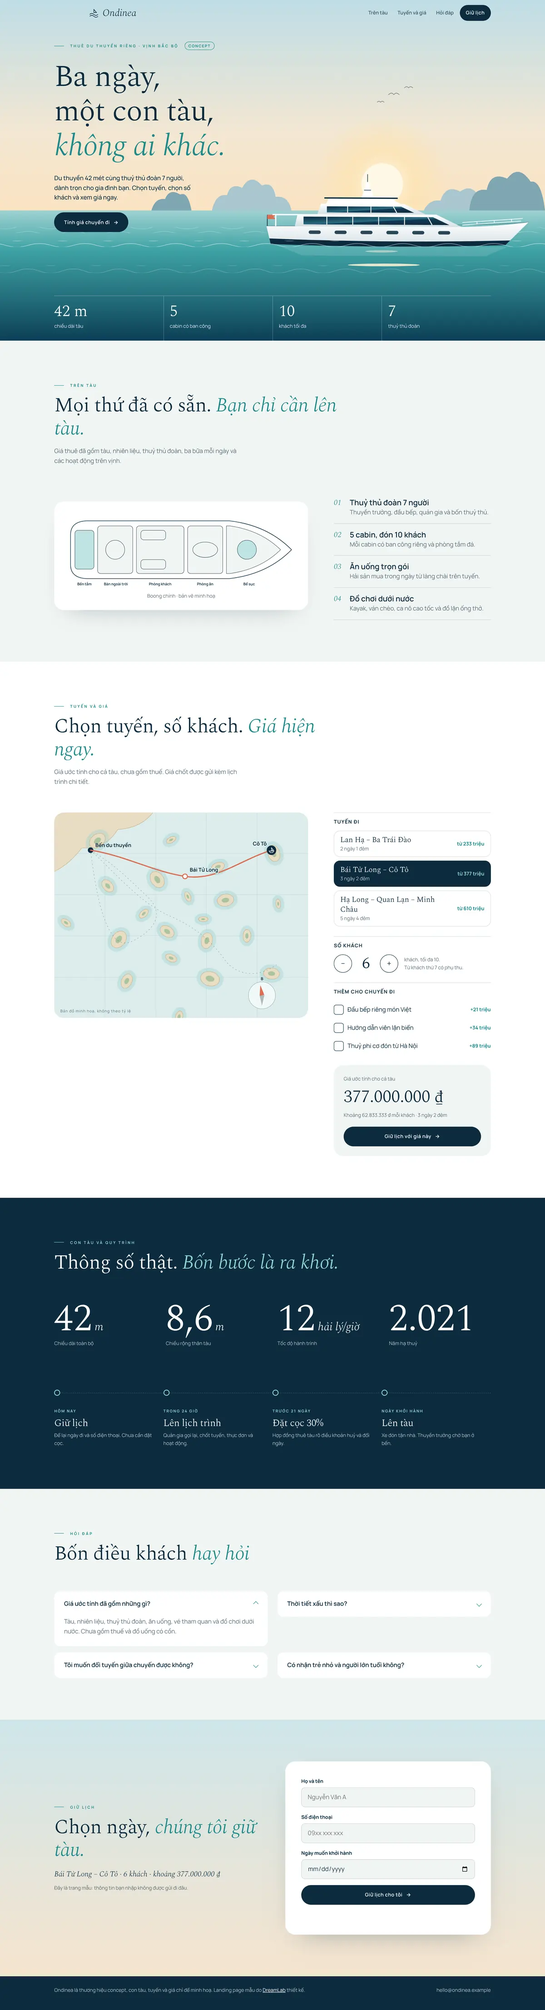
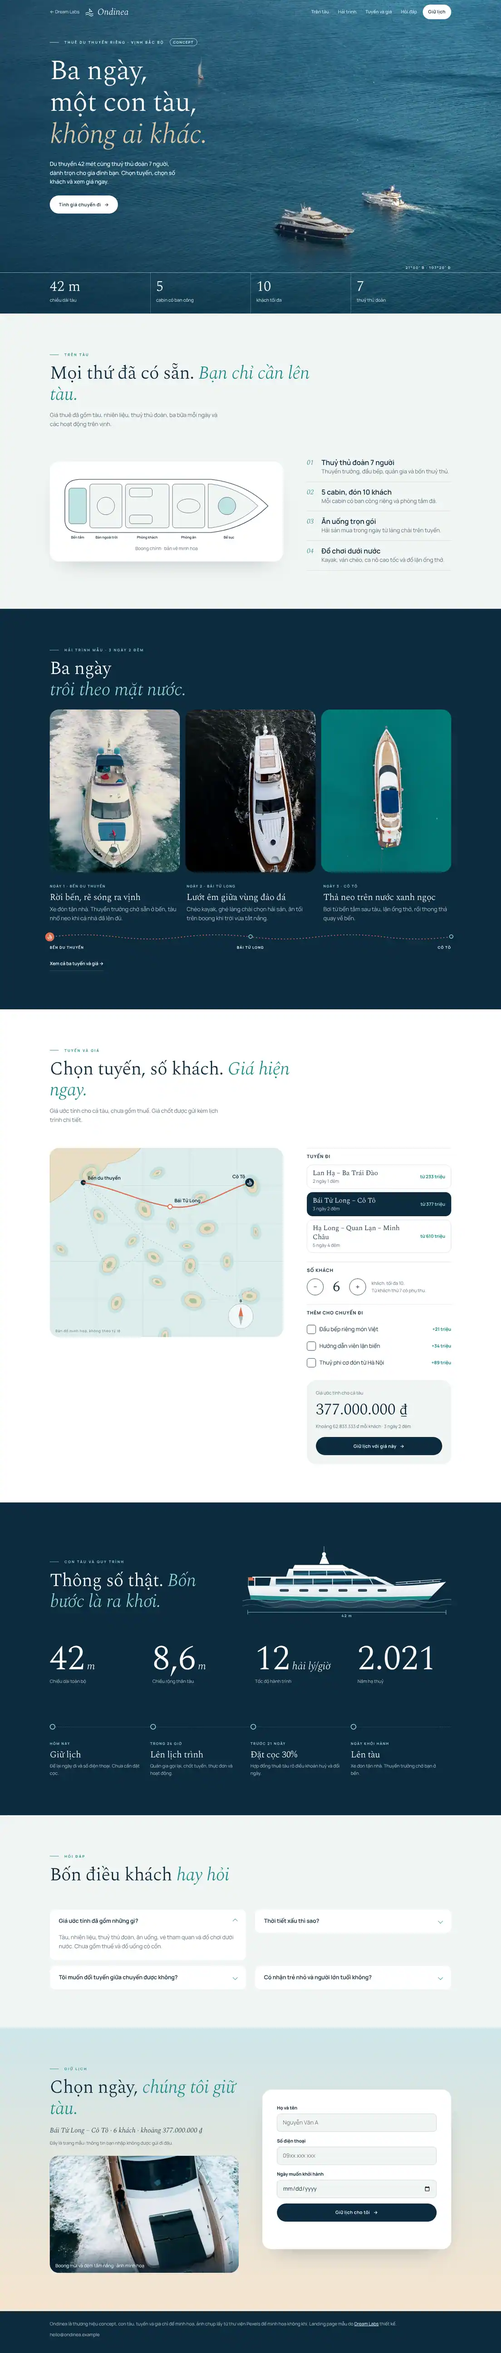
Landing Ondinea: hero ảnh du thuyền với nắng lấp lánh, cảnh ghim hải trình wipe lượn sóng, khối ảnh boong
Claude-Session: https://claude.ai/code/session_012QLWn7rvRysGvRwdv6upwG

diff --git a/demos/lux-lp-ondinea.html b/demos/lux-lp-ondinea.html
@@ -60,24 +60,29 @@ header .w{display:flex;align-items:center;gap:var(--s3);height:68px}
 .lg svg{width:26px;height:26px}
 nav{display:flex;gap:var(--s4);font-size:13px;font-weight:600}nav a{min-height:42px;display:flex;align-items:center;opacity:.74;transition:opacity var(--d2)}nav a:hover{opacity:1}
 /* hero */
-.hero{position:relative;min-height:min(100svh,940px);overflow:hidden;display:flex;flex-direction:column;justify-content:space-between;padding:var(--s7) 0 0;background:#CFE6EA}
-.sc{position:absolute;inset:0;width:100%;height:100%}
-.yt{transform:translate(690px,474px) scale(1.14)}
+.hero{position:relative;min-height:min(100svh,940px);overflow:hidden;display:flex;flex-direction:column;justify-content:space-between;padding:var(--s7) 0 0;background:#1C5F80;color:var(--wh)}
+.hb{position:absolute;inset:-9% 0}.hm{position:absolute;inset:-12px}
+.hi{position:absolute;inset:0;width:100%;height:100%;object-fit:cover;object-position:50% 84%;animation:kb 34s ease-in-out infinite alternate}
+@keyframes kb{from{transform:scale(1.06) translate3d(-1.6%,0,0)}to{transform:scale(1.13) translate3d(1.6%,-.8%,0)}}
+.hb::after{content:"";position:absolute;inset:0;background:linear-gradient(98deg,rgba(12,43,62,.7),rgba(12,43,62,.24) 54%,rgba(12,43,62,0) 76%),linear-gradient(0deg,rgba(12,43,62,.66),rgba(12,43,62,0) 36%)}
+.hg{position:absolute;inset:0;width:100%;height:100%;pointer-events:none}
+.hero em{color:var(--sd)}.hero .cap{color:#CFEDEA}
+.hero .btn,header:not(.s) .btn{background:var(--wh);color:var(--nv)}.hero .btn:hover,header:not(.s) .btn:hover{background:var(--tl);color:var(--wh)}
+header:not(.s){color:var(--wh)}header:not(.s) .bk{color:rgba(255,255,255,.82)}
 .yb{transform-origin:310px 150px;animation:bob 6.86s ease-in-out infinite alternate}
 @keyframes bob{from{transform:translateY(-3px) rotate(-.5deg)}to{transform:translateY(3px) rotate(.6deg)}}
 .wv{animation:wv 11s linear infinite}.wv.b{animation-duration:6.86s;animation-direction:reverse}
 @keyframes wv{to{transform:translateX(-120px)}}
-.gl ellipse{animation:gl 2.62s ease-in-out infinite alternate}.gl ellipse:nth-child(2n){animation-delay:-1s}.gl ellipse:nth-child(3n){animation-delay:-1.8s}
-@keyframes gl{from{opacity:.2;transform:scaleX(.7)}to{opacity:.9}}
-.gl ellipse{transform-box:fill-box;transform-origin:center}
-.brd{animation:brd 26s linear infinite}@keyframes brd{from{transform:translateX(-80px)}to{transform:translateX(1520px)}}
 .hero .w{position:relative;z-index:2}
 h1{font-size:clamp(42px,5.6vw,80px);margin:var(--s4) 0}.h1 span{white-space:nowrap}
 .ld{max-width:38ch;font-weight:500;margin-bottom:var(--s4);animation:fade var(--d6) var(--ease) .5s both}
 .hero .btn{animation:fade var(--d6) var(--ease) .68s both}
-.fc{position:relative;z-index:2;display:grid;grid-template-columns:repeat(4,1fr);color:var(--wh);border-top:1px solid rgba(255,255,255,.34);margin-top:var(--s6)}
+.fc{position:relative;z-index:2;display:grid;grid-template-columns:repeat(4,1fr);margin-top:var(--s6)}
+.fc::before{content:"";position:absolute;left:50%;top:0;width:100vw;margin-left:-50vw;height:1px;background:rgba(255,255,255,.62);transform-origin:0 50%;animation:hz 2.6s var(--ease) .5s both}
+@keyframes hz{from{transform:scaleX(0)}}
+.fc::after{content:"21°00′ B · 107°20′ Đ";position:absolute;right:0;bottom:100%;padding-bottom:var(--s1);font-size:10px;letter-spacing:.2em;font-weight:700;opacity:.8;animation:fade var(--d6) var(--ease) 1.8s both}
 .fc div{padding:var(--s3) var(--s3) var(--s4) 0}.fc div+div{padding-left:var(--s3);border-left:1px solid rgba(255,255,255,.34)}
-.fc b{display:block;font-family:var(--fd);font-weight:300;font-size:clamp(26px,3.4vw,42px);line-height:1.2}.fc span{font-size:13px;opacity:.86}
+.fc b{display:block;font-family:var(--fd);font-weight:300;font-size:clamp(26px,3.4vw,42px);line-height:1.2}.fc div>span{font-size:13px;opacity:.86}
 /* sections */
 .sec{padding:var(--s7) 0;position:relative}
 .sh{max-width:760px;margin-bottom:var(--s6)}
@@ -96,6 +101,48 @@ h2{font-size:clamp(33px,4.6vw,53px);margin:var(--s3) 0}
 .inc li{counter-increment:s;display:grid;grid-template-columns:42px 1fr;padding:var(--s3) 0;border-bottom:1px solid var(--ln)}
 .inc li::before{content:"0" counter(s);font-family:var(--fd);font-style:italic;color:var(--tl);font-size:20px;line-height:1.3}
 .inc h3{font-size:20px;font-family:var(--fb);font-weight:600;letter-spacing:0;line-height:1.3}.inc p{color:var(--mu);grid-column:2}
+/* hải trình */
+.vy{padding:0}.vs{padding:var(--s7) 0}
+.vg{display:grid;gap:var(--s4)}
+.vt h2{margin-bottom:0}.vt em{display:block}
+.vf{position:relative;display:grid;grid-template-columns:repeat(3,1fr);gap:var(--s3)}
+.vf figure{position:relative;overflow:hidden;border-radius:26px;aspect-ratio:4/5;background:#08202F}
+.vf img{position:absolute;inset:0;width:100%;height:100%;object-fit:cover}
+.vc,.vk{display:none;position:absolute;z-index:2}
+.vc{left:var(--s4);top:var(--s3);font-family:var(--fd);font-style:italic;font-size:20px;text-shadow:0 1px 10px rgba(12,43,62,.6)}.vc b{font-weight:300;font-size:33px}
+.vk{right:var(--s3);bottom:var(--s3);width:58px;height:58px;border-radius:50%;border:1px solid rgba(255,255,255,.6);background:rgba(12,43,62,.42)}
+.vk::before{content:"B";position:absolute;left:0;right:0;top:-18px;text-align:center;font-size:10px;font-weight:700;text-shadow:0 1px 6px rgba(12,43,62,.8)}
+.vk svg{width:100%;height:100%;will-change:transform}
+.vl{display:grid;grid-template-columns:repeat(3,1fr);gap:var(--s3) var(--s4)}
+.vl small{font-size:10px;letter-spacing:.2em;text-transform:uppercase;color:#8FD6D3;font-weight:700}
+.vl h3{font-size:26px;margin:var(--s1) 0}.vl p{color:var(--mu);max-width:40ch}
+.rt{position:relative;height:60px;margin-top:var(--s4);font-size:10px;letter-spacing:.16em;text-transform:uppercase;font-weight:700}
+.rt svg{position:absolute;left:0;top:0;width:100%;height:28px;overflow:visible}
+.rt path{fill:none;stroke:var(--ln);stroke-width:1.4;stroke-dasharray:3 6;vector-effect:non-scaling-stroke}
+.rt .rp path{stroke:var(--co);stroke-width:2.2}
+.rt span{position:absolute;top:36px;white-space:nowrap;transition:color var(--d3)}.mo .rt span:not(.on){color:var(--mu)}
+.rt span::before{content:"";position:absolute;top:-29px;left:var(--x,0);width:12px;height:12px;margin-left:-6px;border-radius:50%;background:var(--nv);border:2px solid #8FD6D3}
+.rb{position:absolute;left:-13px;top:1px;width:26px;height:26px;border-radius:50%;background:var(--co);will-change:transform}.rb svg{position:static;width:26px;height:26px}.rb path{stroke:#fff;stroke-width:1.2;stroke-dasharray:none}
+.vy .lk{display:inline-flex;align-items:center;min-height:42px;margin-top:var(--s2);font-size:13px;font-weight:600;border-bottom:1px solid var(--ln)}
+.mo .vy{height:270vh;height:270svh}
+.mo .vs{position:sticky;top:0;height:100vh;height:100svh;padding:94px 0 var(--s5);display:flex;align-items:center}
+.mo .vg{grid-template-columns:1fr min(44vw,560px);gap:var(--s4) var(--s7)}
+.mo .vt{align-self:end}.mo .vb{grid-column:1;align-self:start}
+.mo .vf::after{content:"";position:absolute;inset:0 0 auto;height:34%;background:linear-gradient(180deg,rgba(12,43,62,.5),rgba(12,43,62,0));pointer-events:none}
+.mo .vf{grid-column:2;grid-row:1/3;display:block;height:min(76vh,720px);border-radius:26px;overflow:hidden;background:#08202F}
+.mo .vf figure{position:absolute;inset:0;aspect-ratio:auto;border-radius:0}
+.mo .vf figure+figure{clip-path:inset(0 0 0 100%);will-change:clip-path}.mo .vf img{will-change:transform}
+.mo .vc,.mo .vk{display:block}
+.mo .vl{display:block;position:relative;min-height:176px}
+.mo .vl li{position:absolute;inset:0 0 auto;opacity:0;transform:translateY(26px);transition:opacity var(--d4) var(--ease),transform var(--d5) var(--ease)}
+.mo .vl li.on{opacity:1;transform:none}
+/* ảnh boong + hình tàu */
+.dp{position:relative;overflow:hidden;border-radius:26px;aspect-ratio:1.618/1;background:#0C2B3E}
+.dp img{position:absolute;left:0;top:-15%;width:100%;height:130%;object-fit:cover;object-position:50% 60%}
+.dp figcaption{position:absolute;left:0;right:0;bottom:0;padding:var(--s5) var(--s3) var(--s2);font-size:13px;color:var(--wh);background:linear-gradient(0deg,rgba(12,43,62,.7),rgba(12,43,62,0))}
+.ph{display:grid;grid-template-columns:1fr 1.236fr;gap:var(--s6);align-items:end;margin-bottom:var(--s6)}.ph .sh{margin:0}
+.yf svg{width:100%;overflow:hidden}.yf text{font-family:var(--fb);font-size:11px;font-weight:700;letter-spacing:.16em;fill:#8FD6D3;text-anchor:middle}
+.ml{transform-box:fill-box;transform-origin:0 50%}.js .ml{transform:scaleX(0);transition:transform 2.4s var(--ease) .3s}.js .in .ml{transform:none}
 /* chooser */
 .cz{background:var(--wh)}
 .mp{position:sticky;top:94px;border-radius:26px;overflow:hidden;background:#DCEDEC;aspect-ratio:1.236/1}
@@ -146,7 +193,7 @@ h2{font-size:clamp(33px,4.6vw,53px);margin:var(--s3) 0}
 .fq details p{padding:0 0 var(--s4);color:var(--mu)}
 /* form */
 .fmw{background:linear-gradient(180deg,#CFE6EA,#F6E4CF)}
-.fm{display:grid;grid-template-columns:1fr 1fr;gap:var(--s6);align-items:center}
+.fm{display:grid;grid-template-columns:1fr 1fr;gap:var(--s4) var(--s6);align-items:center}.fm>div{align-self:end}.fm form{grid-column:2;grid-row:1/3}.fm .dp{align-self:start;grid-column:1;grid-row:2}
 .fm .sum{font-family:var(--fd);font-style:italic;font-size:20px;margin-top:var(--s3)}
 .fm .nt2{font-size:13px;color:var(--mu);margin-top:var(--s2)}
 .fm form{background:var(--wh);border-radius:26px;padding:var(--s5);display:grid;gap:var(--s3);box-shadow:0 26px 68px -42px rgba(12,43,62,.5)}
@@ -162,11 +209,16 @@ footer .w{display:flex;flex-wrap:wrap;justify-content:space-between;gap:var(--s2
 .stk .msg{background:var(--tl);color:var(--wh)}
 @media(max-width:860px){
 nav{display:none}.bk span{display:none}
-.hero{padding-top:94px;min-height:max(100svh,700px)}.yt{transform:translate(540px,578px) scale(.58)}
+.hero{padding-top:94px;min-height:max(100svh,700px)}.hi{object-position:76% 50%}.hb::after{background:linear-gradient(180deg,rgba(12,43,62,.72),rgba(12,43,62,.18) 62%,rgba(12,43,62,.6))}
 h1{margin:var(--s3) 0}.ld{margin-bottom:var(--s3)}
-.fc{grid-template-columns:repeat(4,auto);margin-top:0}.fc div{padding:var(--s2) var(--s2) var(--s3) 0}.fc div+div{padding-left:var(--s2)}.fc span{font-size:10px;display:block;line-height:1.4}.fc b{font-size:20px}
+.fc{grid-template-columns:repeat(4,auto);margin-top:0}.fc div{padding:var(--s2) var(--s2) var(--s3) 0}.fc div+div{padding-left:var(--s2)}.fc div>span{font-size:10px;display:block;line-height:1.4}.fc b{font-size:20px}
 .sec{padding:var(--s6) 0}.sh{margin-bottom:var(--s5)}
-.gd,.fm{grid-template-columns:1fr;gap:var(--s4)}
+.gd,.fm,.ph{grid-template-columns:1fr;gap:var(--s4)}.fm form,.fm .dp{grid-column:auto;grid-row:auto}.ph{margin-bottom:var(--s5)}
+.vs{padding:var(--s6) 0}.vf{grid-template-columns:none;grid-auto-flow:column;grid-auto-columns:76%;overflow-x:auto;scroll-snap-type:x mandatory;scrollbar-width:none;margin:0 calc(-1*max(20px,4.4vw));padding:0 max(20px,4.4vw)}.vf::-webkit-scrollbar{display:none}.vf figure{scroll-snap-align:center;border-radius:16px}
+.vl{grid-template-columns:1fr}.vl h3{font-size:22px}.vl p{font-size:14px}
+.mo .vs{padding:74px 0 82px;align-items:stretch}.mo .vg{display:flex;flex-direction:column;gap:var(--s3);height:100%}.vt em{display:inline}.mo .vt h2{font-size:30px;margin-top:var(--s2)}.mo .vt,.mo .vb{align-self:stretch}
+.mo .vf{flex:1;min-height:0;height:auto;margin:0;padding:0;border-radius:16px}.mo .vl{min-height:138px}.rt{margin-top:var(--s2);height:54px}.vy .lk{display:none}
+.dp{border-radius:16px}
 .dk{padding:var(--s3);border-radius:16px}.dk text{font-size:14px}.mp .sp text,.mp text{font-size:18px}.mp{position:relative;top:0;border-radius:16px;aspect-ratio:1/1}
 .nm{grid-template-columns:1fr 1fr;gap:var(--s4) var(--s3);margin-bottom:var(--s6)}
 .ps{grid-template-columns:1fr}.ps::before{left:7px;right:auto;top:0;bottom:0;border-top:0;border-left:1px dashed var(--ln)}.ps li{padding:0 0 var(--s4) var(--s5)}
@@ -176,50 +228,18 @@ footer{padding-bottom:94px}
 </style>
 </head>
 <body>
-<header><div class="w"><a class="bk" href="../index.html" target="_top" aria-label="Quay lại Dream Labs">←&nbsp;<span>Dream Labs</span></a><a class="lg" href="#top"><svg viewBox="0 0 26 26" fill="none" stroke="currentColor" stroke-width="1.4" aria-hidden="true"><path d="M2 17q5.5-5 11 0t11 0M2 22q5.5-5 11 0t11 0M13 3v10M13 4l7 8h-7"/></svg>Ondinea</a><nav><a href="#tren-tau">Trên tàu</a><a href="#chon">Tuyến và giá</a><a href="#hoi-dap">Hỏi đáp</a></nav><a class="btn sm" href="#dk">Giữ lịch</a></div></header>
+<header><div class="w"><a class="bk" href="../index.html" target="_top" aria-label="Quay lại Dream Labs">←&nbsp;<span>Dream Labs</span></a><a class="lg" href="#top"><svg viewBox="0 0 26 26" fill="none" stroke="currentColor" stroke-width="1.4" aria-hidden="true"><path d="M2 17q5.5-5 11 0t11 0M2 22q5.5-5 11 0t11 0M13 3v10M13 4l7 8h-7"/></svg>Ondinea</a><nav><a href="#tren-tau">Trên tàu</a><a href="#hai-trinh">Hải trình</a><a href="#chon">Tuyến và giá</a><a href="#hoi-dap">Hỏi đáp</a></nav><a class="btn sm" href="#dk">Giữ lịch</a></div></header>
 <main id="top">
 <section class="hero">
- <svg class="sc" viewBox="0 0 1440 900" preserveAspectRatio="xMidYMax slice" aria-hidden="true">
-  <defs>
-   <linearGradient id="sk" x1="0" y1="0" x2="0" y2="1"><stop offset="0" stop-color="#BFDDE6"/><stop offset=".62" stop-color="#F3E7D3"/><stop offset="1" stop-color="#FBE3C2"/></linearGradient>
-   <linearGradient id="se" x1="0" y1="0" x2="0" y2="1"><stop offset="0" stop-color="#9FD2D2"/><stop offset=".3" stop-color="#3FA3A5"/><stop offset="1" stop-color="#0C3F56"/></linearGradient>
-   <radialGradient id="sn"><stop offset="0" stop-color="#FFF6DF"/><stop offset=".5" stop-color="#FDE4B4" stop-opacity=".8"/><stop offset="1" stop-color="#FDE4B4" stop-opacity="0"/></radialGradient>
-   <linearGradient id="yH" x1="0" y1="0" x2="0" y2="1"><stop offset="0" stop-color="#fff"/><stop offset="1" stop-color="#D5E0E5"/></linearGradient>
-   <linearGradient id="yG" x1="0" y1="0" x2="1" y2="1"><stop offset="0" stop-color="#0C2B3E"/><stop offset=".5" stop-color="#2A6C82"/><stop offset=".56" stop-color="#103A52"/><stop offset="1" stop-color="#0C2B3E"/></linearGradient>
-   <pattern id="wp" width="120" height="16" patternUnits="userSpaceOnUse"><path d="M0 8q30-9 60 0t60 0" fill="none" stroke="#fff" stroke-opacity=".5" stroke-width="1.4"/></pattern>
-  </defs>
-  <rect width="1440" height="560" fill="url(#sk)"/>
-  <circle cx="1010" cy="486" r="178" fill="url(#sn)"/><circle cx="1010" cy="486" r="55" fill="#FFF8E6"/>
-  <g class="brd" fill="none" stroke="#0C2B3E" stroke-width="1.4" stroke-linecap="round" opacity=".5"><path d="M0 250q8-8 14 0q6-8 14 0M42 232q6-6 11 0q5-6 11 0M-30 270q5-5 9 0q4-5 9 0"/></g>
-  <g data-p=".04"><path d="M560 556q10-46 40-40 8-34 40-20 22-40 52-6 30-12 36 30 34-4 42 36zM1120 556q14-30 44-26 14-44 52-24 30-22 50 14 34-6 44 36zM880 556q8-20 30-18 12-22 34-6 18-8 26 24z" fill="#A9C6CF"/></g>
-  <g data-p=".07"><path d="M1240 556q6-62 46-54 10-50 54-30 30-40 62 8 28-6 38 76zM400 556q10-34 36-30 12-30 40-12 20-10 30 42z" fill="#7FA6B2"/></g>
-  <rect y="556" width="1440" height="344" fill="url(#se)"/>
-  <g class="gl" fill="#FFF3D6"><ellipse cx="1010" cy="566" rx="60" ry="2"/><ellipse cx="1010" cy="578" rx="46" ry="2"/><ellipse cx="1014" cy="592" rx="68" ry="2.4"/><ellipse cx="1006" cy="610" rx="40" ry="2.4"/><ellipse cx="1012" cy="634" rx="80" ry="3"/><ellipse cx="1008" cy="664" rx="52" ry="3"/><ellipse cx="1014" cy="700" rx="96" ry="3.6"/></g>
-  <rect class="wv" x="0" y="600" width="1680" height="16" fill="url(#wp)" opacity=".5"/>
-  <g class="yt"><g class="yb">
-   <path d="M40 154h530l-50 22H96z" fill="#fff" opacity=".12"/>
-   <path d="M14 108v-26" stroke="#0C2B3E" stroke-width="1.4"/><path d="M14 82h20l-6 5 6 5H14z" fill="#DD6E52"/>
-   <path d="M12 108l10 42q278 9 544 0l54-54q-60 10-150 12z" fill="url(#yH)"/>
-   <path d="M19 137l3 13q278 9 544 0l11-11q-280 8-558-2z" fill="#0C2B3E"/>
-   <path d="M12 108q560-2 608-12" fill="none" stroke="#0C2B3E" stroke-width="1" opacity=".5"/>
-   <g fill="#0C2B3E" opacity=".86"><rect x="110" y="118" width="28" height="8" rx="4"/><rect x="170" y="118" width="28" height="8" rx="4"/><rect x="230" y="118" width="28" height="8" rx="4"/><rect x="290" y="118" width="28" height="8" rx="4"/><rect x="350" y="118" width="28" height="8" rx="4"/><rect x="410" y="118" width="28" height="8" rx="4"/></g>
-   <path d="M26 80h66v3H26zM32 83h3v25h-3z" fill="#fff"/>
-   <path d="M78 108l6-28h322l58 28z" fill="url(#yH)"/><path d="M98 86h300l38 18H98z" fill="url(#yG)"/><path d="M152 86v18M212 86v18M272 86v18M332 86v18M386 86l10 18" stroke="#fff" stroke-width="2"/>
-   <path d="M130 80l8-24h194l50 24z" fill="url(#yH)"/><path d="M152 62h172l30 14H152z" fill="url(#yG)"/><path d="M200 62v14M254 62v14M306 62l8 14" stroke="#fff" stroke-width="2"/>
-   <path d="M150 56l6-12h146l22 12z" fill="#fff"/><path d="M146 41h170v3H146z" fill="#0C2B3E"/>
-   <path d="M232 41l10-26h8l12 26z" fill="#fff"/><circle cx="246" cy="11" r="6" fill="#fff"/><path d="M246 5v-18M238 24h16" stroke="#0C2B3E" stroke-width="1.2"/>
-   <path d="M466 104l136-10M466 98l140-10M500 95v6M540 92v6M580 89v6" stroke="#fff" stroke-width="1.4"/>
-  </g></g>
-  <rect class="wv b" x="0" y="636" width="1680" height="16" fill="url(#wp)"/>
-  <rect class="wv" x="0" y="700" width="1680" height="16" fill="url(#wp)" opacity=".4" transform="scale(1 1.6) translate(0 -260)"/>
- </svg>
+ <div class="hb" data-p="-.14"><div class="hm"><img class="hi" src="../img/photo/du-thuyen-5996373-xl.webp" width="1760" height="1495" fetchpriority="high" decoding="async" alt="Du thuyền thân sẫm lướt giữa mặt biển xanh thẫm phẳng lặng, nhìn từ trên cao"></div></div>
+ <canvas class="hg" aria-hidden="true"></canvas>
  <div class="w">
   <p class="cap">Thuê du thuyền riêng · Vịnh Bắc Bộ <span class="tc">Concept</span></p>
   <h1 class="h1"><span><i>Ba ngày,</i></span><span><i>một con tàu,</i></span><span><i><em>không ai khác.</em></i></span></h1>
   <p class="ld">Du thuyền 42 mét cùng thuỷ thủ đoàn 7 người, dành trọn cho gia đình bạn. Chọn tuyến, chọn số khách và xem giá ngay.</p>
   <a class="btn" href="#chon">Tính giá chuyến đi</a>
  </div>
- <div class="w"><div class="fc"><div><b>42 m</b><span>chiều dài tàu</span></div><div><b>5</b><span>cabin có ban công</span></div><div><b>10</b><span>khách tối đa</span></div><div><b>7</b><span>thuỷ thủ đoàn</span></div></div></div>
+ <div class="w"><div class="fc"><div><b><span data-n="42">42</span> m</b><span>chiều dài tàu</span></div><div><b data-n="5">5</b><span>cabin có ban công</span></div><div><b data-n="10">10</b><span>khách tối đa</span></div><div><b data-n="7">7</b><span>thuỷ thủ đoàn</span></div></div></div>
 </section>
 
 <section class="sec" id="tren-tau"><div class="w">
@@ -246,6 +266,28 @@ footer{padding-bottom:94px}
  </div>
 </div></section>
 
+<section class="vy pf" id="hai-trinh"><div class="vs"><div class="w vg">
+ <div class="vt"><p class="cap">Hải trình mẫu · 3 ngày 2 đêm</p><h2 data-r>Ba ngày <em>trôi theo mặt nước.</em></h2></div>
+ <div class="vf">
+  <figure><img src="../img/photo/du-thuyen-20829117.webp" width="1600" height="899" loading="lazy" decoding="async" alt="Du thuyền trắng rẽ sóng trên mặt biển xanh ngọc, nhìn từ phía mũi tàu"></figure>
+  <figure><img src="../img/photo/lux-lp-ondinea-hoang-hon.webp" width="720" height="1152" loading="lazy" decoding="async" alt="Du thuyền boong gỗ lướt êm trên mặt nước sẫm màu lúc chiều muộn, nhìn từ trên cao"></figure>
+  <figure><img src="../img/photo/lux-lp-ondinea-tha-neo.webp" width="860" height="1009" loading="lazy" decoding="async" alt="Du thuyền thả neo giữa vùng nước xanh ngọc phẳng lặng, nhìn thẳng từ trên xuống"></figure>
+  <p class="vc" aria-hidden="true"><b id="vn">01</b> / 03</p>
+  <div class="vk" aria-hidden="true"><svg viewBox="-29 -29 58 58"><path d="M0-22l5 22h-10z" fill="#DD6E52"/><path d="M0 22l5-22h-10z" fill="#fff" opacity=".5"/></svg></div>
+ </div>
+ <div class="vb">
+  <ol class="vl">
+   <li class="on"><small>Ngày 1 · Bến du thuyền</small><h3>Rời bến, rẽ sóng ra vịnh</h3><p>Xe đón tận nhà. Thuyền trưởng chờ sẵn ở bến, tàu nhổ neo khi cả nhà đã lên đủ.</p></li>
+   <li><small>Ngày 2 · Bái Tử Long</small><h3>Lướt êm giữa vùng đảo đá</h3><p>Chèo kayak, ghé làng chài chọn hải sản, ăn tối trên boong khi trời vừa tắt nắng.</p></li>
+   <li><small>Ngày 3 · Cô Tô</small><h3>Thả neo trên nước xanh ngọc</h3><p>Bơi từ bến tắm sau tàu, lặn ống thở, rồi thong thả quay về bến.</p></li>
+  </ol>
+  <div class="rt" aria-hidden="true"><svg viewBox="0 0 600 28" preserveAspectRatio="none"><path d="M0 14q50-12 100 0t100 0t100 0t100 0t100 0t100 0"/></svg><svg class="rp" viewBox="0 0 600 28" preserveAspectRatio="none"><path d="M0 14q50-12 100 0t100 0t100 0t100 0t100 0t100 0"/></svg>
+   <span class="on" style="left:0">Bến du thuyền</span><span style="left:50%;transform:translateX(-50%);--x:50%">Bái Tử Long</span><span style="right:0;--x:100%">Cô Tô</span>
+   <i class="rb"><svg viewBox="-13 -13 26 26"><path d="M-6 2h12l-3 4h-6zM0-7v8M0-6l5 6H0" fill="none"/></svg></i></div>
+  <a class="lk" href="#chon">Xem cả ba tuyến và giá&nbsp;→</a>
+ </div>
+</div></div></section>
+
 <section class="sec cz" id="chon"><div class="w">
  <div class="sh"><p class="cap">Tuyến và giá</p><h2 data-r>Chọn tuyến, số khách. <em>Giá hiện ngay.</em></h2><p data-r style="--i:1">Giá ước tính cho cả tàu, chưa gồm thuế. Giá chốt được gửi kèm lịch trình chi tiết.</p></div>
  <div class="gd" style="align-items:start">
@@ -270,7 +312,26 @@ footer{padding-bottom:94px}
 </div></section>
 
 <section class="sec pf" id="quy-trinh"><div class="w">
- <div class="sh"><p class="cap">Con tàu và quy trình</p><h2 data-r>Thông số thật. <em>Bốn bước là ra khơi.</em></h2></div>
+ <div class="ph"><div class="sh"><p class="cap">Con tàu và quy trình</p><h2 data-r>Thông số thật. <em>Bốn bước là ra khơi.</em></h2></div>
+  <figure class="yf" data-r><svg viewBox="0 0 640 236" role="img" aria-label="Hình vẽ mạn du thuyền dài 42 mét, vẽ bằng SVG">
+   <defs><linearGradient id="yH" x1="0" y1="0" x2="0" y2="1"><stop offset="0" stop-color="#fff"/><stop offset="1" stop-color="#D5E0E5"/></linearGradient><linearGradient id="yG" x1="0" y1="0" x2="1" y2="1"><stop offset="0" stop-color="#0C2B3E"/><stop offset=".5" stop-color="#2A6C82"/><stop offset=".56" stop-color="#103A52"/><stop offset="1" stop-color="#0C2B3E"/></linearGradient><pattern id="wp" width="120" height="16" patternUnits="userSpaceOnUse"><path d="M0 8q30-9 60 0t60 0" fill="none" stroke="#8FD6D3" stroke-opacity=".6" stroke-width="1.4"/></pattern></defs>
+   <g transform="translate(4 30)"><g class="yb">
+   <path d="M40 154h530l-50 22H96z" fill="#fff" opacity=".12"/>
+   <path d="M14 108v-26" stroke="#8FD6D3" stroke-width="1.4"/><path d="M14 82h20l-6 5 6 5H14z" fill="#DD6E52"/>
+   <path d="M12 108l10 42q278 9 544 0l54-54q-60 10-150 12z" fill="url(#yH)"/>
+   <path d="M19 137l3 13q278 9 544 0l11-11q-280 8-558-2z" fill="#1F8A8C"/>
+   <path d="M12 108q560-2 608-12" fill="none" stroke="#8FD6D3" stroke-width="1" opacity=".5"/>
+   <g fill="#0C2B3E" opacity=".86"><rect x="110" y="118" width="28" height="8" rx="4"/><rect x="170" y="118" width="28" height="8" rx="4"/><rect x="230" y="118" width="28" height="8" rx="4"/><rect x="290" y="118" width="28" height="8" rx="4"/><rect x="350" y="118" width="28" height="8" rx="4"/><rect x="410" y="118" width="28" height="8" rx="4"/></g>
+   <path d="M26 80h66v3H26zM32 83h3v25h-3z" fill="#fff"/>
+   <path d="M78 108l6-28h322l58 28z" fill="url(#yH)"/><path d="M98 86h300l38 18H98z" fill="url(#yG)"/><path d="M152 86v18M212 86v18M272 86v18M332 86v18M386 86l10 18" stroke="#fff" stroke-width="2"/>
+   <path d="M130 80l8-24h194l50 24z" fill="url(#yH)"/><path d="M152 62h172l30 14H152z" fill="url(#yG)"/><path d="M200 62v14M254 62v14M306 62l8 14" stroke="#fff" stroke-width="2"/>
+   <path d="M150 56l6-12h146l22 12z" fill="#fff"/><path d="M146 41h170v3H146z" fill="#0C2B3E"/>
+   <path d="M232 41l10-26h8l12 26z" fill="#fff"/><circle cx="246" cy="11" r="6" fill="#fff"/><path d="M246 5v-18M238 24h16" stroke="#8FD6D3" stroke-width="1.2"/>
+   <path d="M466 104l136-10M466 98l140-10M500 95v6M540 92v6M580 89v6" stroke="#fff" stroke-width="1.4"/>
+   </g></g>
+   <rect class="wv b" x="0" y="178" width="880" height="16" fill="url(#wp)"/><rect class="wv" x="0" y="190" width="880" height="16" fill="url(#wp)" opacity=".5"/>
+   <g stroke="#8FD6D3" stroke-width="1.2"><path d="M16 212v14M624 212v14"/><path class="ml" d="M16 219h608"/></g><text x="320" y="234">42 m</text>
+  </svg></figure></div>
  <div class="nm">
   <div data-r><b><span data-n="42">42</span><small>m</small></b><span>Chiều dài toàn bộ</span></div>
   <div data-r style="--i:1"><b><span data-n="8.6" data-dc="1">8,6</span><small>m</small></b><span>Chiều rộng thân tàu</span></div>
@@ -303,9 +364,10 @@ footer{padding-bottom:94px}
   <label>Ngày muốn khởi hành<input class="fld" id="f3" type="date"></label>
   <button class="btn">Giữ lịch cho tôi</button><p class="msg" role="status"></p>
  </form>
+ <figure class="dp" data-r="clip"><img data-p="-.07" src="../img/photo/du-thuyen-34469584.webp" width="1200" height="1600" loading="lazy" decoding="async" alt="Boong mũi du thuyền nhìn từ trên cao: sàn gỗ, đệm tắm nắng và sóng trắng hai bên mạn"><figcaption>Boong mũi và đệm tắm nắng · ảnh minh hoạ</figcaption></figure>
 </div></section>
 </main>
-<footer><div class="w"><span>Ondinea là thương hiệu concept, con tàu, tuyến và giá chỉ để minh hoạ. Landing page mẫu do <a href="../index.html" target="_top">Dream Labs</a> thiết kế.</span><span>hello@ondinea.example</span></div></footer>
+<footer><div class="w"><span>Ondinea là thương hiệu concept, con tàu, tuyến và giá chỉ để minh hoạ, ảnh chụp lấy từ thư viện Pexels để minh hoạ không khí. Landing page mẫu do <a href="../index.html" target="_top">Dream Labs</a> thiết kế.</span><span>hello@ondinea.example</span></div></footer>
 <form class="stk" novalidate data-ok="Đã ghi số của bạn. Trang mẫu nên chưa gửi đi đâu."><p class="msg" role="status"></p><label class="vh" for="s1">Số điện thoại</label><input id="s1" type="tel" required placeholder="Số điện thoại"><button>Giữ lịch</button></form>
 <script>
 (()=>{
@@ -321,7 +383,7 @@ const onS=()=>{tk=0;const y=scrollY,vh=innerHeight;hd&&hd.classList.toggle('s',y
 addEventListener('scroll',()=>{tk||(tk=requestAnimationFrame(onS))},{passive:true});onS();
 $$('form').forEach(f=>f.addEventListener('submit',e=>{e.preventDefault();const m=$('.msg',f),ok=$$('[required]',f).every(i=>i.value.trim());m.textContent=ok?(f.dataset.ok||'Cảm ơn bạn. Đây là trang mẫu của Dream Labs nên chưa có thông tin nào được gửi đi.'):'Bạn điền giúp các ô còn trống nhé.';m.classList.toggle('ok',ok)}));
 try{parent!==window&&parent.postMessage({wkDemo:'lux-lp-ondinea',smDemo:'lux-lp-ondinea'},'*')}catch(e){}
-/* đảo: rải theo góc vàng 137,5° */
+/* đảo: rải theo đường xoắn ốc */
 $('#isl').innerHTML=Array.from({length:21},(_,i)=>{const a=i*2.39996,r=42+i*13.6,x=330+Math.cos(a)*r*1.1,y=270+Math.sin(a)*r*.82,s=6+(i*7%13);const t=`transform="rotate(${i*34} ${x.toFixed(0)} ${y.toFixed(0)})"`,c=`cx="${x.toFixed(0)}" cy="${y.toFixed(0)}"`;return x<70&&y<170?'':`<ellipse ${c} rx="${s+16}" ry="${s+9}" ${t} fill="#9FD2D2" fill-opacity=".42" stroke="none"/><ellipse ${c} rx="${s+6}" ry="${s}" ${t}/><ellipse ${c} rx="${s*.5+2}" ry="${s*.4}" ${t} fill="#A9C4A0" stroke="none"/>`}).join('');
 const R=[{n:'Lan Hạ – Ba Trái Đào',t:'2 ngày 1 đêm',d:2,p:233e6,pa:'M92 96C150 130 190 170 236 214S250 300 196 326S110 250 92 96',s:[[236,214,'Lan Hạ'],[196,326,'Ba Trái Đào']]},
  {n:'Bái Tử Long – Cô Tô',t:'3 ngày 2 đêm',d:3,p:377e6,pa:'M92 96C180 110 250 150 330 162S470 120 548 96',s:[[330,162,'Bái Tử Long'],[548,96,'Cô Tô']]},
@@ -342,6 +404,27 @@ $('#gm').addEventListener('click',()=>{S.g=Math.max(2,S.g-1);up()});$('#gpl').ad
 $$('.ex input').forEach(c=>c.addEventListener('change',()=>{S.x[+c.dataset.x]=+c.checked;up()}));
 $('#pr')._v=377e6;up(1);
 watch(D);
+/* mặt nước: lấp lánh ở hero, cảnh hải trình ghim */
+if(!RM&&'IntersectionObserver' in window){
+const cl=(v,a=0,b=1)=>v<a?a:v>b?b:v,sm=u=>u*u*(3-2*u),
+loop=(el,fn)=>{let v=0,r=0;const go=t=>{r=0;if(v&&!D.hidden){fn(t);r=requestAnimationFrame(go)}},k=()=>{r||(r=requestAnimationFrame(go))};new IntersectionObserver(e=>{v=e[0].isIntersecting;v&&k()}).observe(el);D.addEventListener('visibilitychange',k)};
+const cv=$('.hg'),hm=$('.hm'),c=cv.getContext('2d');let W=0,Hh=0,g=[],lt=0,mx=0,my=0,cx=0,cy=0;
+const sz=()=>{const d=Math.min(devicePixelRatio||1,1.5);W=cv.clientWidth;Hh=cv.clientHeight;cv.width=W*d;cv.height=Hh*d;c.setTransform(d,0,0,d,0,0);c.strokeStyle='#fff';c.lineCap='round';g=Array.from({length:W<760?14:46},()=>({s:.5+Math.random(),o:Math.random()*6.28,x:0}))};
+sz();addEventListener('resize',sz);
+if(matchMedia('(hover:hover)').matches)$('.hero').addEventListener('pointermove',e=>{mx=(.5-e.clientX/innerWidth)*18;my=(.5-e.clientY/innerHeight)*10});
+loop(cv,t=>{if(t-lt<33)return;lt=t;c.clearRect(0,0,W,Hh);
+ for(const p of g){const a=Math.sin(t/900*p.s+p.o);if(a<.1){p.x=0;continue}if(!p.x){const m=W<760;p.x=W*(m?Math.random():.44+Math.random()*.56);p.y=Hh*(m?.56+Math.random()*.3:.12+Math.random()*.7);p.l=2+Math.random()*6}
+  const k=(a-.1)/.9;c.globalAlpha=k*.85;c.lineWidth=.6+k*1.2;c.beginPath();c.moveTo(p.x-p.l*k,p.y);c.lineTo(p.x+p.l*k,p.y);c.stroke()}
+ cx+=(mx-cx)*.06;cy+=(my-cy)*.06;hm.style.transform=`translate3d(${cx.toFixed(1)}px,${cy.toFixed(1)}px,0)`});
+const vy=$('.vy'),fg=$$('.vf figure'),li=$$('.vl li'),ls=$$('.rt span'),rp=$('.rp'),rb=$('.rb'),rt=$('.rt'),vk=$('.vk svg'),vn=$('#vn');let p=-1,ix=-1;
+H.classList.add('mo');
+const wave=f=>{const A=7,E=100+A-f*(100+2*A);let s='100% 0';for(let y=0;y<=100;y+=4)s+=`,${(E+A*Math.sin(y*.1+f*5)).toFixed(1)}% ${y}%`;return`polygon(${s},100% 100%)`};
+loop(vy,()=>{const r=vy.getBoundingClientRect(),tp=cl(-r.top/(r.height-innerHeight));if(p<0)p=tp;if(ix>=0&&Math.abs(tp-p)<4e-4)return;p+=(tp-p)*.14;
+ const t=sm(cl((p-.12)/.3))+sm(cl((p-.56)/.3)),i=Math.round(t);
+ fg.forEach((f,k)=>{const u=cl(t-k+1);if(k)f.style.clipPath=u<1?wave(u):'none';f.firstElementChild.style.transform=`translate3d(${(cl(t-k)*-5).toFixed(2)}%,0,0) scale(${(1.05+(1-u)*.12).toFixed(3)})`});
+ rp.style.clipPath=`inset(-9px ${(100-t*50).toFixed(2)}% -9px 0)`;rb.style.transform=`translate3d(${(t/2*rt.clientWidth).toFixed(1)}px,${(-6*Math.sin(t*3*Math.PI)).toFixed(1)}px,0)`;vk.style.transform=`rotate(${(p*300-40).toFixed(1)}deg)`;
+ if(i!==ix){ix=i;li.forEach((l,k)=>l.classList.toggle('on',k===i));ls.forEach((l,k)=>l.classList.toggle('on',k<=i));vn.textContent='0'+(i+1)}});
+}
 })();
 </script>
 </body>
